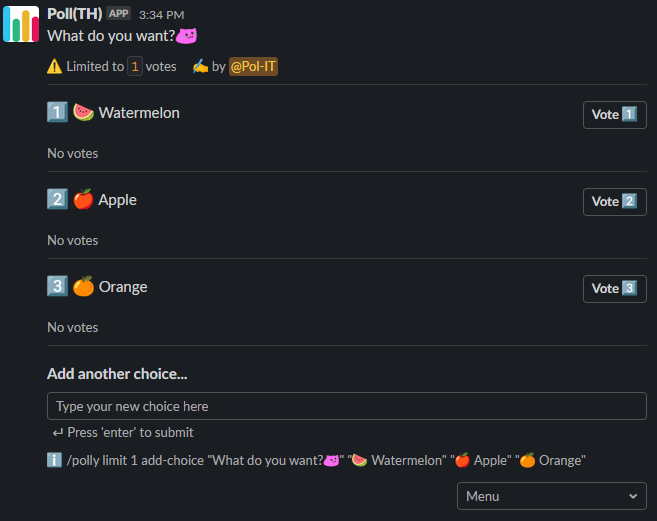
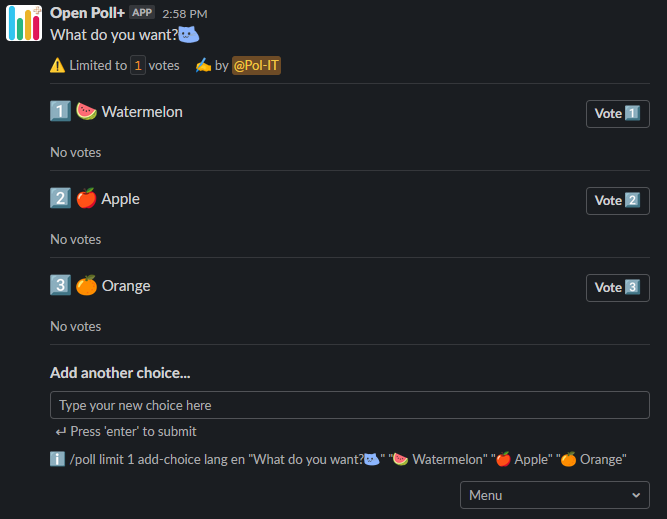
Add more translation, help text

diff --git a/index.js b/index.js
@@ -661,6 +661,48 @@ app.command(`/${slackCommand}`, async ({ ack, body, client, command, context, sa
           text: "```\n/"+slackCommand+" anonymous limit 2 \"What's your favourite color ?\" \"Red\" \"Green\" \"Blue\" \"Yellow\"\n```",
         },
       },
+      {
+        type: 'section',
+        text: {
+          type: 'mrkdwn',
+          text: '*Allow choices add by others*',
+        },
+      },
+      {
+        type: 'section',
+        text: {
+          type: 'mrkdwn',
+          text: "```\n/"+slackCommand+" add-choice \"What's your favourite color ?\" \"Red\" \"Green\" \"Blue\" \"Yellow\"\n```",
+        },
+      },
+      {
+        type: 'section',
+        text: {
+          type: 'mrkdwn',
+          text: '*Change poll language for current poll only*',
+        },
+      },
+      {
+        type: 'section',
+        text: {
+          type: 'mrkdwn',
+          text: "```\n/"+slackCommand+" lang th \"What's your favourite color ?\" \"Red\" \"Green\" \"Blue\" \"Yellow\"\n```",
+        },
+      },
+      {
+        type: 'section',
+        text: {
+          type: 'mrkdwn',
+          text: '*Config Open Poll for this Workspace*',
+        },
+      },
+      {
+        type: 'section',
+        text: {
+          type: 'mrkdwn',
+          text: "```\n/"+slackCommand+" config```",
+        },
+      },
     ];
 
     let mRequestBody = {
@@ -2559,7 +2601,7 @@ async function supportAction(body, client, context) {
     type: 'section',
     text: {
       type: 'mrkdwn',
-      text: ':heart: You love the app ?',
+      text: stri18n(gAppLang,'menu_support_love_app'),
     },
   },
   { type: 'divider' },
@@ -2567,16 +2609,16 @@ async function supportAction(body, client, context) {
     type: 'section',
     text: {
       type: 'mrkdwn',
-      text: ':technologist: Contribute on it',
+      text: stri18n(gAppLang,'menu_support_contribute'),
     },
     accessory: {
       type: 'button',
       text: {
         type: 'plain_text',
-        text: 'Open GitLab',
+        text: stri18n(gAppLang,'menu_support_source'),
       },
       style: 'primary',
-      url: 'https://gitlab.com/KazuAlex/openpollslack',
+      url: helpLink,
       action_id: 'ignore_me',
     }
   },
@@ -2584,15 +2626,15 @@ async function supportAction(body, client, context) {
     type: 'section',
     text: {
       type: 'mrkdwn',
-      text: ':coffee: Buy me a coffee to help me to maintain servers or just thanks me',
+      text: stri18n(gAppLang,'menu_support_me'),
     },
     accessory: {
       type: 'button',
       text: {
         type: 'plain_text',
-        text: 'Buy a coffee',
+        text: stri18n(gAppLang,'menu_support_me_buy_coffee'),
       },
-      url: 'https://www.buymeacoffee.com/kazualex',
+      url: supportUrl,
       action_id: 'ignore_me',
     }
   }];
@@ -2602,7 +2644,7 @@ async function supportAction(body, client, context) {
     channel: body.channel.id,
     user: body.user.id,
     blocks,
-    text: 'Support Open Poll',
+    text: stri18n(gAppLang,'menu_support_open_poll'),
   };
   await postChat(body.response_url,'ephemeral',mRequestBody);
 

diff --git a/index_plus.html b/index_plus.html
@@ -43,7 +43,7 @@
         </a>
         <!-- <a href="https://www.buymeacoffee.com/kazualex" target="_blank"><img src="https://cdn.buymeacoffee.com/buttons/v2/default-yellow.png" alt="Buy Me A Coffee" style="height: 77px !important;width: 278px !important;" ></a> -->
         <span style="font-size: large;">For more information please visit <a style="color: #00a300; font-weight: bold; text-decoration: underline;" target="_blank" href="https://github.com/polppol/openpollslack-i18n">GitHub page</a></span>
-        <span >This app was forked from <a style="color: #00a300;  text-decoration: underline;" target="_blank" href="https://github.com/KazuAlex/openpollslack">KazuAlex/openpollslack</a></span>
+        <span >This app was forked from <a style="color: whitesmoke;  text-decoration: underline;" target="_blank" href="https://github.com/KazuAlex/openpollslack">KazuAlex/openpollslack</a></span>
       </div>
     </div>
     <div id="usage">
